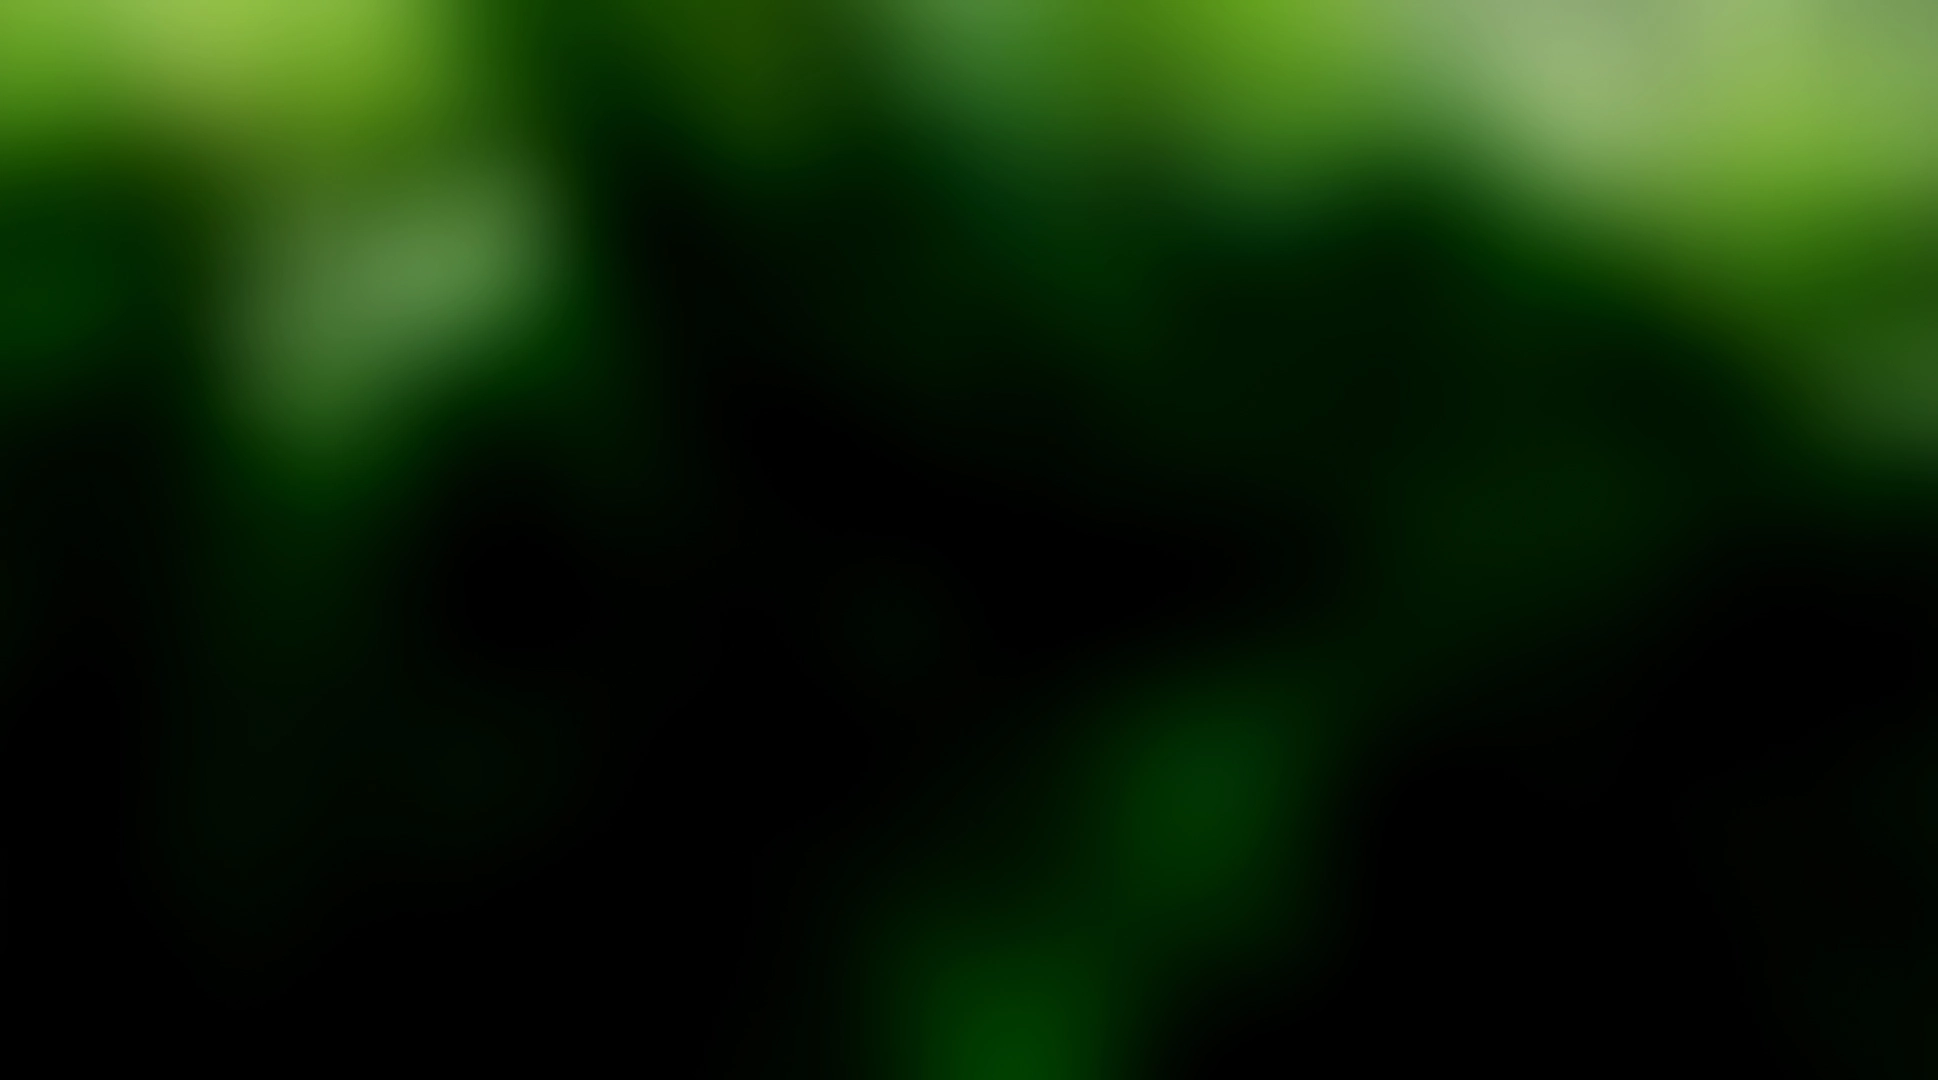
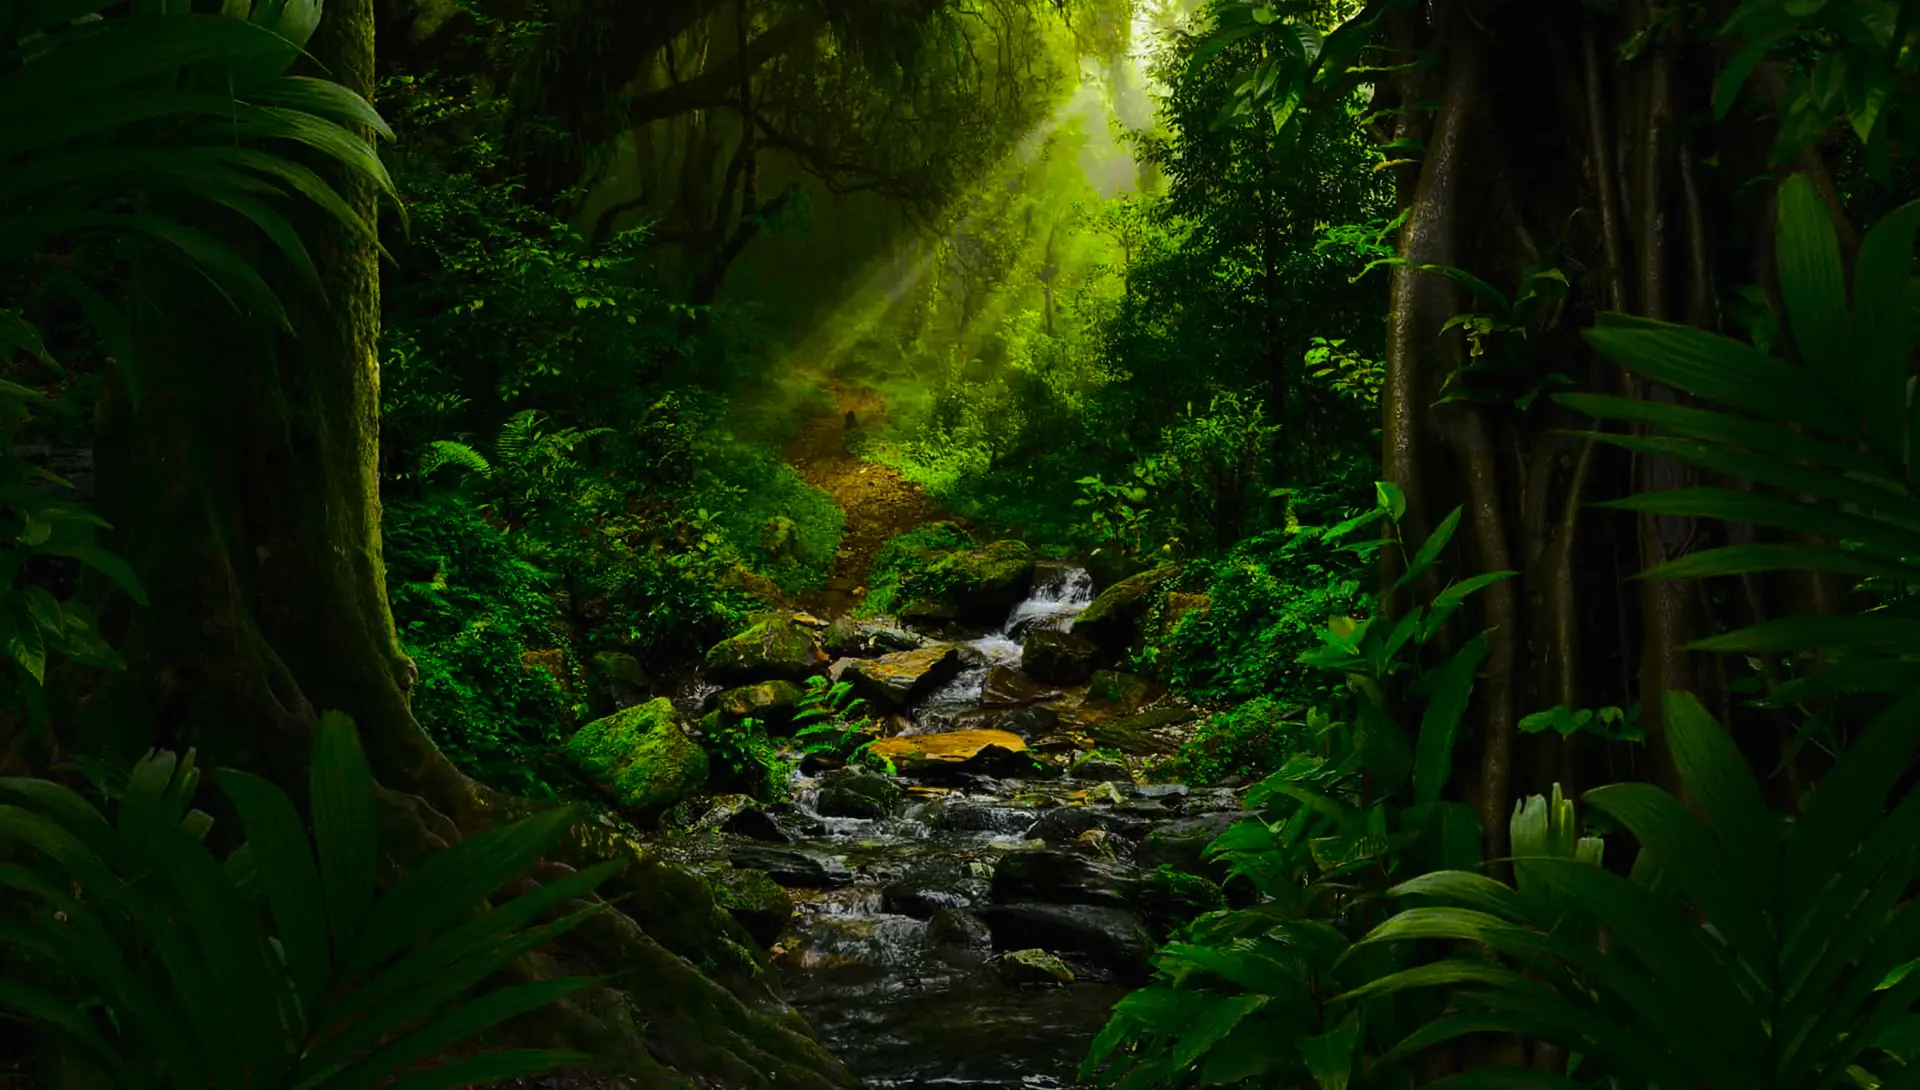
fixes
fixes

diff --git a/index.html b/index.html
@@ -22,18 +22,18 @@
     <meta property="og:description" content="INHABIT protects vital ecosystems and drives rural innovation through community-led biocultural hubs. Join us in shaping a global corridor of biodiversity." />
     <meta property="og:type" content="website" />
     <meta property="og:url" content="https://inhabit.one" />
-    <meta property="og:image" content="https://inhabit.one/assets/open-graph.jpg" />
-    <meta property="og:image:width" content="1200" />
-    <meta property="og:image:height" content="630" />
-    <meta property="og:image:alt" content="INHABIT - Global Corridor of Biodiversity" />
+    <meta property="og:image" content="https://inhabit.one/assets/foundation-logo.svg" />
+    <meta property="og:image:width" content="129" />
+    <meta property="og:image:height" content="140" />
+    <meta property="og:image:alt" content="INHABIT Foundation Logo" />
     <meta property="og:site_name" content="INHABIT" />
     
     <!-- Twitter Card Meta Tags -->
     <meta name="twitter:card" content="summary_large_image" />
     <meta name="twitter:title" content="INHABIT - Global Corridor of Biodiversity" />
     <meta name="twitter:description" content="INHABIT protects vital ecosystems and drives rural innovation through community-led biocultural hubs. Join us in shaping a global corridor of biodiversity." />
-    <meta name="twitter:image" content="https://inhabit.one/assets/open-graph.jpg" />
-    <meta name="twitter:image:alt" content="INHABIT - Global Corridor of Biodiversity" />
+    <meta name="twitter:image" content="https://inhabit.one/assets/foundation-logo.svg" />
+    <meta name="twitter:image:alt" content="INHABIT Foundation Logo" />
     
     <!-- Additional Favicon Formats -->
     <link rel="apple-touch-icon" sizes="180x180" href="/assets/apple-touch-icon.png" />
